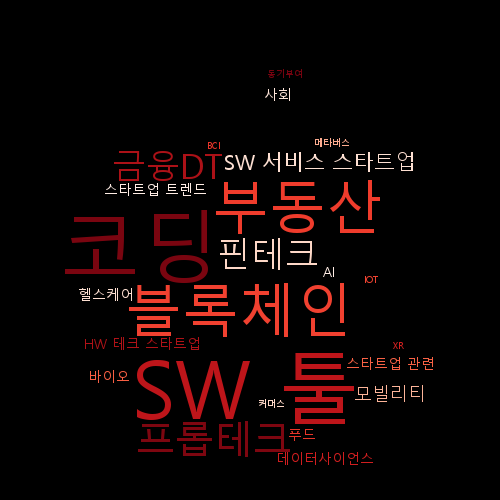
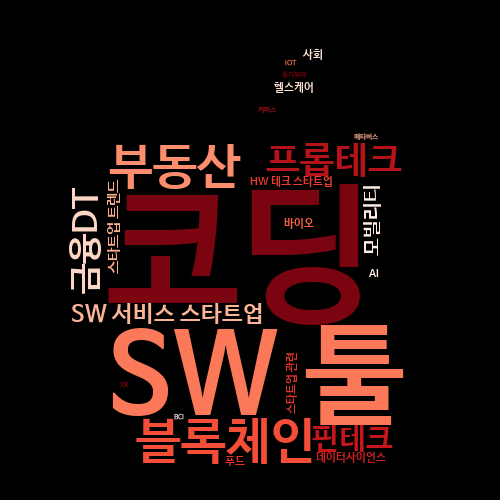
v221219.05

diff --git a/cloudmaker2.py b/cloudmaker2.py
@@ -79,7 +79,7 @@ mask = np.array(mask) # 픽셀 값 배열 형태 변환
 
 word_counts = Counter(list)
   
-wordcloud = WordCloud(font_path=font_path,  background_color="black", colormap='Blues', random_state = 43, max_font_size=150, min_font_size=5, max_words=5000, mask=mask).generate_from_frequencies(word_counts)
+wordcloud = WordCloud(font_path=font_path, background_color="black", colormap='Blues', random_state = 43, max_font_size=150, min_font_size=5, max_words=5000, mask=mask).generate_from_frequencies(word_counts)
 
 plt.figure(figsize = (6,6))
 plt.imshow(wordcloud, interpolation="bilinear")

diff --git a/cloudmaker1.py b/cloudmaker1.py
@@ -66,7 +66,7 @@ mask = np.array(mask) # 픽셀 값 배열 형태 변환
 
 word_counts = collections
   
-wordcloud = WordCloud(font_path='malgun',  background_color="black", colormap='Reds', width = 500, height = 500, random_state = 43, max_font_size=80, mask=mask).generate_from_frequencies(word_counts)
+wordcloud = WordCloud(font_path=font_path, background_color="black", colormap='Reds', random_state = 43, max_font_size=150, min_font_size=5, max_words=5000, mask=mask).generate_from_frequencies(word_counts)
 
 plt.figure(figsize = (6,6))
 plt.imshow(wordcloud, interpolation="bilinear")
